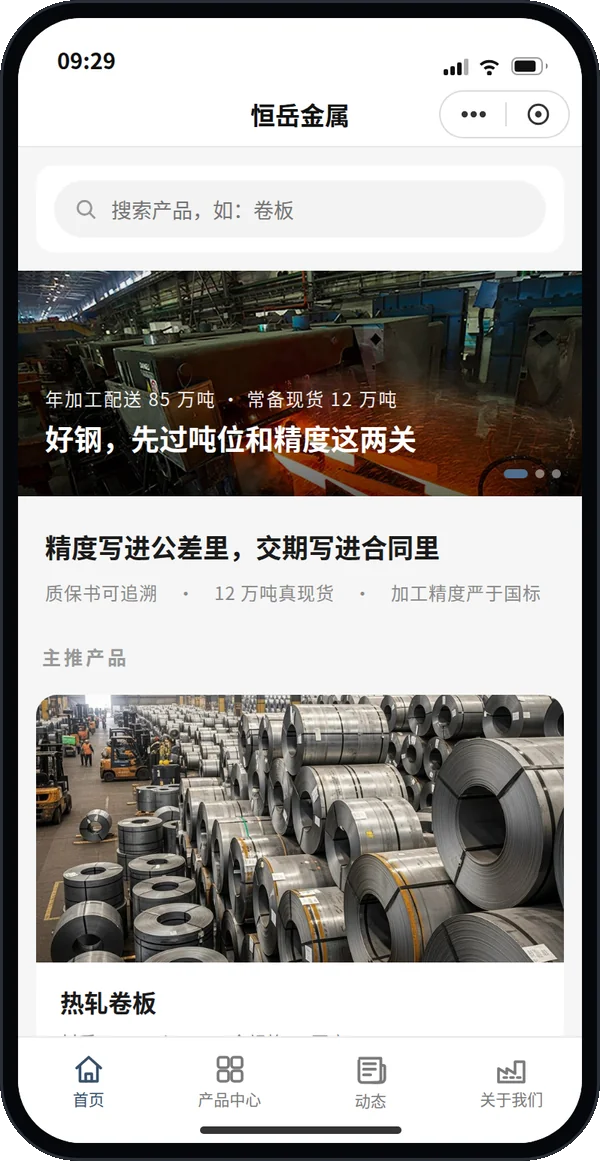
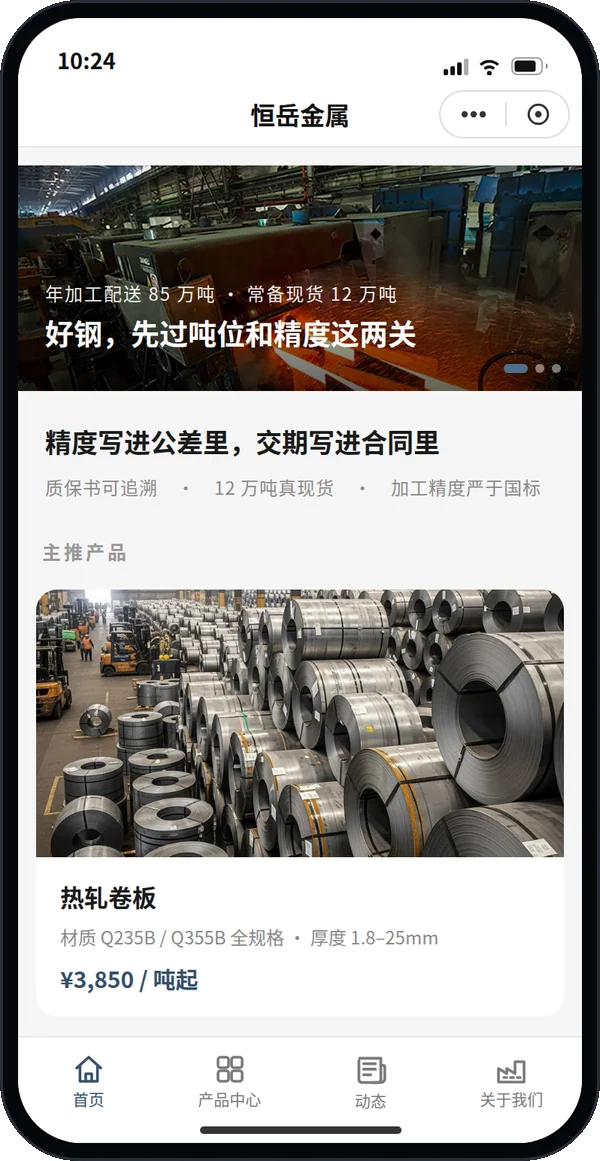
MP-S1 第十二轮：搜索撤出首页归位产品中心（与 S2 同口径：名称+参数全目录检索、有查询忽略分类、点分类片清查询）+ 主推封顶 6（Pickup 3 + 普通卡 3，超量纯文字提示）+ 门户 S1 卡图刷新

diff --git a/mp/index.html b/mp/index.html
@@ -262,7 +262,7 @@
       <h3>样板构成</h3>
       <ul>
         <li>骨架：MP-S1 展示型 · 企业官网经典 4 栏（用户定版 tab 架构标准：微信规范 2–5 栏、落地主流 3–4 栏）</li>
-        <li>栏位：首页（app 信息流：搜索 → 瘦身 Banner → 主张提炼行 → 金刚区（只放产品分类：上产品图 + 下分类名，单行横滑——产品分类 4–8 个全量入格、超过 8 个按产品数取前 8、不足 4 个整区不渲染，点击预筛产品中心，数据驱动、与展示预设无关）→ Pickup 精选与产品流（分类大图卡已于第九轮取消）→ 企业实力聚合区（按展示配置动态渲染楼层：有啥展示啥、无数据不留空板块，楼层均为预览入口 + 锚点深链）→ 底部转化区）· 产品中心（分类 / 规格参数 / 询价，核心转化区）· 动态（信任背书：案例与企业动态，全文单点落此栏）· 关于我们（简介全文 / 工厂实景与资质荣誉 / 地址导航 / 联系方式 / 在线留资表单）</li>
+        <li>栏位：首页（app 信息流：瘦身 Banner → 主张提炼行 → 金刚区（只放产品分类：上产品图 + 下分类名，单行横滑——产品分类 4–8 个全量入格、超过 8 个按产品数取前 8、不足 4 个整区不渲染，点击预筛产品中心，数据驱动、与展示预设无关）→ 主推产品流（Pickup 精选 + 产品卡，主推封顶 6 件；分类大图卡已于第九轮取消）→ 企业实力聚合区（按展示配置动态渲染楼层：有啥展示啥、无数据不留空板块，楼层均为预览入口 + 锚点深链）→ 底部转化区）· 产品中心（搜索 / 分类 / 规格参数 / 询价，核心转化区）· 动态（信任背书：案例与企业动态，全文单点落此栏）· 关于我们（简介全文 / 工厂实景与资质荣誉 / 地址导航 / 联系方式 / 在线留资表单）</li>
         <li>转化设计：产品详情页与关于我们页固定悬浮一键拨号 + 在线客服（动作不印号码）；联系方式全文只在关于我们出现一处</li>
         <li id="specPack">内容包：机械设备 · 恒力重工（与官网演示站同一份数据）</li>
         <li id="specAccent">主题色：内容包品牌 accent 安全黄 #E4AF00</li>
@@ -473,13 +473,19 @@ function ctaHTML() {
     </div>
   </div>`;
 }
-/* 首页（第八轮：展示配置与首页动态映射；第九轮：金刚区单维度化；第十轮：金刚区图格化；第十一轮：金刚区单行横滑）——骨架定版：搜索（携参深链）→ 瘦身 Banner + 主张提炼行
-   → 金刚区（只放产品分类：上图下名、单行横滑覆盖 4–8 类，数据驱动）→ 核心产品（Pickup 精选与产品流；分类大图卡已取消，分类入口统一归金刚区）
+/* 首页（第八轮：展示配置与首页动态映射；第九轮：金刚区单维度化；第十轮：金刚区图格化；第十一轮：金刚区单行横滑；
+   第十二轮：搜索撤出首页、主推封顶 6）——骨架定版：瘦身 Banner + 主张提炼行
+   → 金刚区（只放产品分类：上图下名、单行横滑覆盖 4–8 类，数据驱动）→ 主推产品（Pickup 精选与产品流；分类大图卡已取消，分类入口统一归金刚区）
    → 企业实力聚合区（配置驱动的动态楼层）→ 底部转化区。
+   搜索归位（第十二轮）：首页是品牌展示面、不设搜索；搜索是产品中心的工具，归产品中心顶部常驻
+   （与 MP-S2 同口径：按名称/参数关键词全目录检索，有查询时忽略分类，点分类片即清查询）。
+   主推封顶（第十二轮）：首页产品流最多 6 件（前 3 Pickup 大卡 + 后 3 普通卡），不足 6 全量；
+   选取以目录序前 6 代行——真实客户包应在资料整理层以主推标记策展，不由前端临场决定。
    内容决定模块生灭：楼层由展示配置（packs-display）与内容池数据共同决定，有啥展示啥。 */
 function renderHome() {
-  const picks = P.products.slice(0, 3);
-  const rest = P.products.slice(3);
+  const shown = P.products.slice(0, 6); // 主推封顶 6：目录序前 6（策展口径见上方注释）
+  const picks = shown.slice(0, 3);
+  const rest = shown.slice(3);
   const specPair = p => p.specs.slice(0, 2).map(s => esc(s.k) + " " + esc(s.v)).join(" · ");
   const pickHTML = p => `
     <div class="pick" data-detail="${p.id}">
@@ -501,7 +507,6 @@ function renderHome() {
       </div>
     </div>`;
   return `
-  <form class="search" id="homeSearch"><div class="in">${IC.search}<input id="hq" type="text" placeholder="搜索产品，如：${esc(P.search_example)}"></div></form>
   <div class="swiper" id="swiper" style="margin-top:12px">
     <div class="track" style="transform:translateX(-${S.slide * 375}px)">
       ${P.hero_slides.map((src, i) => `
@@ -522,7 +527,9 @@ function renderHome() {
     ${picks.map(pickHTML).join("")}
     ${rest.map(cardHTML).join("")}
   </div>
-  <div class="end-hint">— 已展示全部 ${P.products.length} 件产品 —</div>
+  ${P.products.length > 6
+    ? `<div class="end-hint">仅展示主推产品，全部 ${P.products.length} 件见产品中心</div>`
+    : `<div class="end-hint">— 已展示全部 ${P.products.length} 件产品 —</div>`}
   ${floorsHTML()}
   ${ctaHTML()}
   <div class="foot-note">${esc(P.company_full)}<br>${esc(P.demo_note)} · 本页为网页模拟样板</div>`;
@@ -530,11 +537,14 @@ function renderHome() {
 
 function renderProducts() {
   const cats = ["全部", ...new Set(P.products.map(p => p.cat))];
-  const list = P.products.filter(p =>
-    (S.cat === "全部" || p.cat === S.cat) &&
-    (!S.query || (p.title + p.text).includes(S.query)));
+  /* 搜索与分类共存口径（与 MP-S2 常驻搜索一致，第十二轮归位）：有查询时全目录检索
+     （名称 + 简介 + 参数键值）、忽略分类；无查询时按分类筛选。
+     点分类片清查询（见点击处理），金刚区深链进场亦清查询（见 goProducts）。 */
+  const list = S.query
+    ? P.products.filter(p => (p.title + p.text + p.specs.map(s => s.k + s.v).join("")).includes(S.query))
+    : P.products.filter(p => S.cat === "全部" || p.cat === S.cat);
   return `
-  <div class="search"><div class="in">${IC.search}<input id="q" type="text" placeholder="搜索产品，如：${esc(P.search_example)}" value="${esc(S.query)}"></div></div>
+  <div class="search"><div class="in">${IC.search}<input id="q" type="text" placeholder="搜索产品 / 参数，如：${esc(P.search_example)}" value="${esc(S.query)}"></div></div>
   <div class="tabs">${cats.map(c => `<span class="tb ${c === S.cat ? "on" : ""}" data-cat="${c}">${c}</span>`).join("")}</div>
   <div class="plist">
     ${list.length ? list.map(p => `
@@ -705,16 +715,25 @@ function render() {
   renderTabs();
   startSwiper();
   if (pendingAnchor) { const id = pendingAnchor; pendingAnchor = null; requestAnimationFrame(() => scrollToId(id)); }
+  bindQuery();
+  bindPageBits();
+  syncFab();
+}
+
+/* 产品中心搜索框接线：输入即全目录检索（口径见 renderProducts）；替换列表后须为新输入框重绑，
+   否则连续输入第二字起不再过滤。有查询时分类片高亮回「全部」（与 MP-S2 同口径）。 */
+function bindQuery() {
   const q = $("#q");
-  if (q) q.addEventListener("input", () => {
+  if (!q) return;
+  q.addEventListener("input", () => {
     S.query = q.value;
+    if (S.query) S.cat = "全部";
     const pos = q.selectionStart;
     $("#page").innerHTML = renderProducts();
     const nq = $("#q"); nq.focus(); nq.setSelectionRange(pos, pos);
+    bindQuery();
     bindPageBits();
   });
-  bindPageBits();
-  syncFab();
 }
 
 function bindPageBits() {
@@ -739,7 +758,7 @@ function goTab(id) {
   render();
 }
 function goProducts(cat) {
-  S.cat = cat || "全部"; S.tab = "products"; S.detail = null;
+  S.cat = cat || "全部"; S.query = ""; S.tab = "products"; S.detail = null;
   $("#detail").classList.add("hidden");
   $("#tabbar").style.display = ""; $("#navBack").classList.add("hidden");
   history.replaceState(null, "", "#/products");
@@ -768,7 +787,7 @@ function closeDetail() {
 document.addEventListener("click", e => {
   const tab = e.target.closest("[data-tab]"); if (tab) { goTab(tab.dataset.tab); return; }
   const det = e.target.closest("[data-detail]"); if (det) { openDetail(+det.dataset.detail); return; }
-  const cat = e.target.closest("[data-cat]"); if (cat) { S.cat = cat.dataset.cat; render(); return; }
+  const cat = e.target.closest("[data-cat]"); if (cat) { S.cat = cat.dataset.cat; S.query = ""; render(); return; }
   const biz = e.target.closest("[data-biz]"); if (biz) { goProducts(P.biz_cats[+biz.dataset.biz] || "全部"); return; }
   const catnav = e.target.closest("[data-catnav]"); if (catnav) { goProducts(catnav.dataset.catnav); return; }
   const parts = e.target.closest("[data-parts]"); if (parts) { goProducts(P.support.parts ? P.support.parts.cat : "全部"); return; }
@@ -790,13 +809,6 @@ document.addEventListener("click", e => {
   if (e.target.closest("#navBack")) { if (S.detail != null) closeDetail(); }
 });
 document.addEventListener("submit", e => {
-  if (e.target.closest("#homeSearch")) {
-    e.preventDefault();
-    S.query = $("#hq").value.trim();
-    S.cat = "全部";
-    goTab("products");
-    return;
-  }
   if (!e.target.closest("#leadForm")) return;
   e.preventDefault();
   const name = $("#lfName").value.trim(), phone = $("#lfPhone").value.trim();
